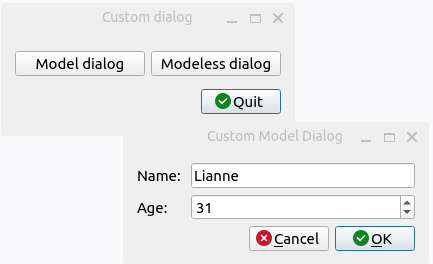
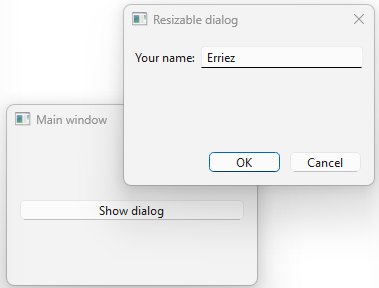
Add simple custom dialog example

diff --git a/06_dialogs/05_custom_dialog.py b/06_dialogs/05_custom_dialog.py
@@ -24,154 +24,87 @@
 # Source: https://github.com/Erriez/pyside6-getting-started
 #
 
-from PySide6.QtWidgets import QApplication, QWidget, QPushButton, QHBoxLayout, QVBoxLayout,\
-    QDialog, QFormLayout, QLineEdit, QDialogButtonBox, QMessageBox, QSpinBox
-from PySide6.QtCore import Qt
+from PySide6.QtWidgets import (
+    QApplication,
+    QWidget,
+    QDialog,
+    QDialogButtonBox,
+    QLabel,
+    QLineEdit,
+    QPushButton,
+    QHBoxLayout,
+    QVBoxLayout,
+    QMessageBox
+)
 import sys
 
 
-# https://doc.qt.io/qtforpython/PySide6/QtWidgets/QDialog.html
-class CustomDialog(QDialog):
-    def __init__(self, parent=None, title='', name='', age=0):
+class Dialog(QDialog):
+    def __init__(self, parent=None):
         super().__init__(parent)
 
-        # Resize window
-        self.setMinimumWidth(300)
-        self.setWindowTitle(title)
+        # Set window size and title
+        self.setMinimumSize(250, 150)
+        self.setWindowTitle("Resizable dialog")
 
-        # Create name text box
-        self.txt_name = QLineEdit(name)
-        self.txt_name.setMaxLength(20)
+        # Create label and line edit, then add to horizontal box layout
+        self.labelName = QLabel("Your name:")
+        self.editName = QLineEdit()
+        self.horizontalLayout = QHBoxLayout()
+        self.horizontalLayout.addWidget(self.labelName)
+        self.horizontalLayout.addWidget(self.editName)
 
-        # Create age spinbox
-        self.spin_age = QSpinBox()
-        self.spin_age.setMinimum(0)
-        self.spin_age.setMaximum(100)
-        self.spin_age.setValue(age)
+        # Create a dialog button box for OK and Cancel buttons
+        self.buttonBox = QDialogButtonBox()
+        self.buttonBox.setStandardButtons(QDialogButtonBox.StandardButton.Cancel | QDialogButtonBox.StandardButton.Ok)
 
-        # Add text boxes to form layout
-        self.form = QFormLayout()
-        self.form.addRow('Name: ', self.txt_name)
-        self.form.addRow('Age:', self.spin_age)
+        # Connect OK and Cancel buttons to accept / reject slot
+        self.buttonBox.accepted.connect(self.accept)
+        self.buttonBox.rejected.connect(self.reject)
 
-        # Create dialog Ok and Cancel buttons
-        dialog_buttons = QDialogButtonBox(QDialogButtonBox.StandardButton.Ok |
-                                          QDialogButtonBox.StandardButton.Cancel)
-        dialog_buttons.accepted.connect(self.accept)
-        dialog_buttons.rejected.connect(self.reject)
-
-        # Add form and dialog buttons to vertical box layout
-        vbox = QVBoxLayout()
-        vbox.addLayout(self.form)
-        vbox.addWidget(dialog_buttons)
-
-        # Add vertical layout to window
-        self.setLayout(vbox)
-
-    def get_name(self):
-        # Return text from textbox
-        return self.txt_name.text()
-
-    def get_age(self):
-        # Return age from spinbox
-        return self.spin_age.value()
+        # Add previously created layout and widgets to the dialog
+        self.vboxLayout = QVBoxLayout(self)
+        self.vboxLayout.addLayout(self.horizontalLayout)
+        self.vboxLayout.addStretch() # <- Stretch between layout on the top and OK/Cancel buttons at the bottom
+        self.vboxLayout.addWidget(self.buttonBox)
 
 
-class MainWindow(QWidget):
+class Window(QWidget):
     def __init__(self):
         super().__init__()
 
-        self.custom_dialog_modeless = None
-        self.name = ''
-        self.age = 0
+        # Set window size and title
+        self.setMinimumSize(250, 150)
+        self.setWindowTitle("Main window")
 
-        # Set minimum window size
-        self.setMinimumSize(150, 100)
-        self.setWindowTitle('Custom dialog')
+        # Add one button to open dialog
+        self.buttonShowDialog = QPushButton("Show dialog")
+        self.buttonShowDialog.clicked.connect(self.on_show_dialog_model)
 
-        self.setWindowFlags(self.windowFlags() & Qt.CustomizeWindowHint)
-        self.setWindowFlags(self.windowFlags() & ~Qt.WindowMinMaxButtonsHint)
+        # Add button to vertical box layout
+        self.vboxLayout = QVBoxLayout(self)
+        self.vboxLayout.addWidget(self.buttonShowDialog)
 
-        # Create push buttons
-        show_dialog_model = QPushButton('Model dialog', self)
-        show_dialog_model.clicked.connect(self.dialog_model_show)
-        show_dialog_model.setFixedWidth(130)
-        show_dialog_modeless = QPushButton('Modeless dialog', self)
-        show_dialog_modeless.clicked.connect(self.dialog_modeless_show)
-        show_dialog_modeless.setFixedWidth(130)
+        # Add vertical box layout to widget
+        self.setLayout(self.vboxLayout)
 
-        # Add button to window
-        hbox = QHBoxLayout()
-        hbox.addWidget(show_dialog_model)
-        hbox.addWidget(show_dialog_modeless)
+    def on_show_dialog_model(self):
+        # Create dialog object
+        dialog = Dialog(parent=self)
 
-        # Create quit button
-        dialog_buttons = QDialogButtonBox(QDialogButtonBox.StandardButton.Ok)
-        dialog_buttons.button(QDialogButtonBox.StandardButton.Ok).setText('Quit')
-        dialog_buttons.accepted.connect(QApplication.quit)
-
-        # Add model buttons and quit button to layout
-        vbox = QVBoxLayout()
-        vbox.addLayout(hbox)
-        vbox.addWidget(dialog_buttons)
-
-        # Add layout to window
-        self.setLayout(vbox)
-
-    def dialog_model_show(self):
-        # Create custom model dialog
-        custom_dialog_model = CustomDialog(parent=self,
-                                           title='Custom Model Dialog',
-                                           name=self.name,
-                                           age=self.age)
-
-        # Wait until True (Ok / accepted) or False (Cancel / rejected) clicked
-        if custom_dialog_model.exec():
-            # Get results from dialog
-            self.name = custom_dialog_model.get_name()
-            self.age = custom_dialog_model.get_age()
-            self.show_results(name=self.name, age=self.age)
-
-    def dialog_modeless_show(self):
-        # Create custom modeless dialog
-        if not self.custom_dialog_modeless:
-            self.custom_dialog_modeless = CustomDialog(parent=self,
-                                                       title='Custom Modeless Dialog',
-                                                       name=self.name,
-                                                       age=self.age)
-            self.custom_dialog_modeless.accepted.connect(self.dialog_modeless_close)
-            self.custom_dialog_modeless.rejected.connect(self.dialog_modeless_reject)
-
-            # Show modeless dialog (show() returns immediately)
-            self.custom_dialog_modeless.show()
-
-    def dialog_modeless_close(self):
-        # Get results from dialog
-        self.name = self.custom_dialog_modeless.get_name()
-        self.age = self.custom_dialog_modeless.get_age()
-        self.show_results(name=self.name, age=self.age)
-
-        # Destroy object
-        self.custom_dialog_modeless = None
-
-    def dialog_modeless_reject(self):
-        # Destroy object
-        self.custom_dialog_modeless = None
-
-    def show_results(self, name, age):
-        # Show results in information message box
-        QMessageBox.information(self,
-                                'Result',
-                                "Hi {}! \nYou are {} years old.".format(name, age),
-                                QMessageBox.StandardButton.Ok)
+        # Show dialog model and wait for result to display in an information message box
+        if dialog.exec() == QDialog.Accepted:
+            QMessageBox.information(self, "Dialog", f"Hello {dialog.editName.text()}!")
+        else:
+            QMessageBox.information(self, "Dialog", "Clicked cancel")
 
 
 def main():
     app = QApplication(sys.argv)
-    main_window = MainWindow()
-    main_window.show()
+    window = Window()
+    window.show()
     sys.exit(app.exec())
 
 
-if __name__ == '__main__':
+if __name__ == "__main__":
     main()

diff --git a/06_dialogs/06_dialog_model_modeless.py b/06_dialogs/06_dialog_model_modeless.py
@@ -1,0 +1,177 @@
+#
+# MIT License
+#
+# Copyright (c) 2023-2024 Erriez
+#
+# Permission is hereby granted, free of charge, to any person obtaining a copy
+# of this software and associated documentation files (the "Software"), to deal
+# in the Software without restriction, including without limitation the rights
+# to use, copy, modify, merge, publish, distribute, sublicense, and/or sell
+# copies of the Software, and to permit persons to whom the Software is
+# furnished to do so, subject to the following conditions:
+#
+# The above copyright notice and this permission notice shall be included in all
+# copies or substantial portions of the Software.
+#
+# THE SOFTWARE IS PROVIDED "AS IS", WITHOUT WARRANTY OF ANY KIND, EXPRESS OR
+# IMPLIED, INCLUDING BUT NOT LIMITED TO THE WARRANTIES OF MERCHANTABILITY,
+# FITNESS FOR A PARTICULAR PURPOSE AND NONINFRINGEMENT. IN NO EVENT SHALL THE
+# AUTHORS OR COPYRIGHT HOLDERS BE LIABLE FOR ANY CLAIM, DAMAGES OR OTHER
+# LIABILITY, WHETHER IN AN ACTION OF CONTRACT, TORT OR OTHERWISE, ARISING FROM,
+# OUT OF OR IN CONNECTION WITH THE SOFTWARE OR THE USE OR OTHER DEALINGS IN THE
+# SOFTWARE.
+#
+# Source: https://github.com/Erriez/pyside6-getting-started
+#
+
+from PySide6.QtWidgets import QApplication, QWidget, QPushButton, QHBoxLayout, QVBoxLayout,\
+    QDialog, QFormLayout, QLineEdit, QDialogButtonBox, QMessageBox, QSpinBox
+from PySide6.QtCore import Qt
+import sys
+
+
+# https://doc.qt.io/qtforpython/PySide6/QtWidgets/QDialog.html
+class CustomDialog(QDialog):
+    def __init__(self, parent=None, title='', name='', age=0):
+        super().__init__(parent)
+
+        # Resize window
+        self.setMinimumWidth(300)
+        self.setWindowTitle(title)
+
+        # Create name text box
+        self.txt_name = QLineEdit(name)
+        self.txt_name.setMaxLength(20)
+
+        # Create age spinbox
+        self.spin_age = QSpinBox()
+        self.spin_age.setMinimum(0)
+        self.spin_age.setMaximum(100)
+        self.spin_age.setValue(age)
+
+        # Add text boxes to form layout
+        self.form = QFormLayout()
+        self.form.addRow('Name: ', self.txt_name)
+        self.form.addRow('Age:', self.spin_age)
+
+        # Create dialog Ok and Cancel buttons
+        dialog_buttons = QDialogButtonBox(QDialogButtonBox.StandardButton.Ok |
+                                          QDialogButtonBox.StandardButton.Cancel)
+        dialog_buttons.accepted.connect(self.accept)
+        dialog_buttons.rejected.connect(self.reject)
+
+        # Add form and dialog buttons to vertical box layout
+        vbox = QVBoxLayout()
+        vbox.addLayout(self.form)
+        vbox.addWidget(dialog_buttons)
+
+        # Add vertical layout to window
+        self.setLayout(vbox)
+
+    def get_name(self):
+        # Return text from textbox
+        return self.txt_name.text()
+
+    def get_age(self):
+        # Return age from spinbox
+        return self.spin_age.value()
+
+
+class MainWindow(QWidget):
+    def __init__(self):
+        super().__init__()
+
+        self.custom_dialog_modeless = None
+        self.name = ''
+        self.age = 0
+
+        # Set minimum window size
+        self.setMinimumSize(150, 100)
+        self.setWindowTitle('Custom dialog')
+
+        self.setWindowFlags(self.windowFlags() & Qt.CustomizeWindowHint)
+        self.setWindowFlags(self.windowFlags() & ~Qt.WindowMinMaxButtonsHint)
+
+        # Create push buttons
+        show_dialog_model = QPushButton('Model dialog', self)
+        show_dialog_model.clicked.connect(self.dialog_model_show)
+        show_dialog_model.setFixedWidth(130)
+        show_dialog_modeless = QPushButton('Modeless dialog', self)
+        show_dialog_modeless.clicked.connect(self.dialog_modeless_show)
+        show_dialog_modeless.setFixedWidth(130)
+
+        # Add button to window
+        hbox = QHBoxLayout()
+        hbox.addWidget(show_dialog_model)
+        hbox.addWidget(show_dialog_modeless)
+
+        # Create quit button
+        dialog_buttons = QDialogButtonBox(QDialogButtonBox.StandardButton.Ok)
+        dialog_buttons.button(QDialogButtonBox.StandardButton.Ok).setText('Quit')
+        dialog_buttons.accepted.connect(QApplication.quit)
+
+        # Add model buttons and quit button to layout
+        vbox = QVBoxLayout()
+        vbox.addLayout(hbox)
+        vbox.addWidget(dialog_buttons)
+
+        # Add layout to window
+        self.setLayout(vbox)
+
+    def dialog_model_show(self):
+        # Create custom model dialog
+        custom_dialog_model = CustomDialog(parent=self,
+                                           title='Custom Model Dialog',
+                                           name=self.name,
+                                           age=self.age)
+
+        # Wait until True (Ok / accepted) or False (Cancel / rejected) clicked
+        if custom_dialog_model.exec():
+            # Get results from dialog
+            self.name = custom_dialog_model.get_name()
+            self.age = custom_dialog_model.get_age()
+            self.show_results(name=self.name, age=self.age)
+
+    def dialog_modeless_show(self):
+        # Create custom modeless dialog
+        if not self.custom_dialog_modeless:
+            self.custom_dialog_modeless = CustomDialog(parent=self,
+                                                       title='Custom Modeless Dialog',
+                                                       name=self.name,
+                                                       age=self.age)
+            self.custom_dialog_modeless.accepted.connect(self.dialog_modeless_close)
+            self.custom_dialog_modeless.rejected.connect(self.dialog_modeless_reject)
+
+            # Show modeless dialog (show() returns immediately)
+            self.custom_dialog_modeless.show()
+
+    def dialog_modeless_close(self):
+        # Get results from dialog
+        self.name = self.custom_dialog_modeless.get_name()
+        self.age = self.custom_dialog_modeless.get_age()
+        self.show_results(name=self.name, age=self.age)
+
+        # Destroy object
+        self.custom_dialog_modeless = None
+
+    def dialog_modeless_reject(self):
+        # Destroy object
+        self.custom_dialog_modeless = None
+
+    def show_results(self, name, age):
+        # Show results in information message box
+        QMessageBox.information(self,
+                                'Result',
+                                "Hi {}! \nYou are {} years old.".format(name, age),
+                                QMessageBox.StandardButton.Ok)
+
+
+def main():
+    app = QApplication(sys.argv)
+    main_window = MainWindow()
+    main_window.show()
+    sys.exit(app.exec())
+
+
+if __name__ == '__main__':
+    main()

diff --git a/06_dialogs/README.md b/06_dialogs/README.md
@@ -21,3 +21,7 @@
 ## [05_custom_dialog.py](05_custom_dialog.py)
 
 ![05_custom_dialog](05_custom_dialog.png)
+
+## [06_dialog_model_modeless.py](06_dialog_model_modeless.py)
+
+![06_dialog_model_modeless](06_dialog_model_modeless.png)
